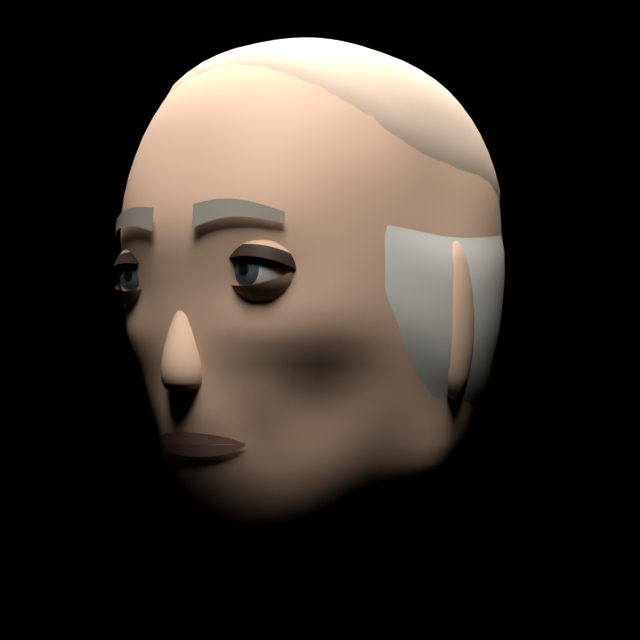
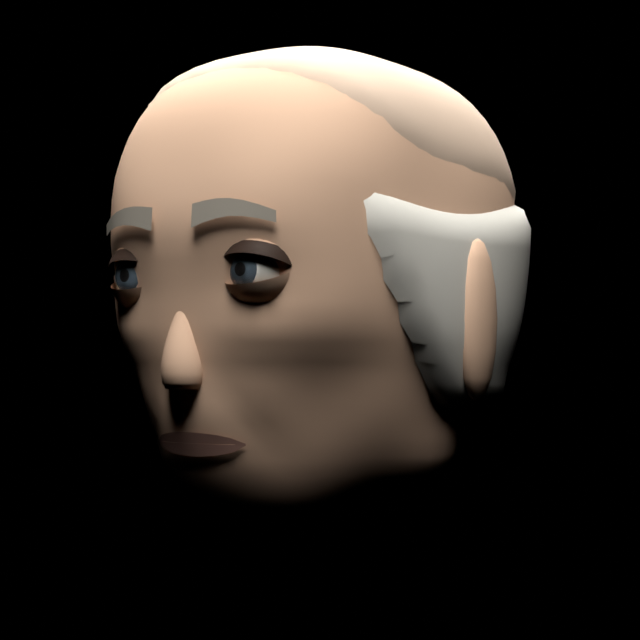
Design: Walter shot 38 v2 (kinder: dome, hair band, softer age, eyes, knotted scarf, paper bounce test)
Claude-Session: https://claude.ai/code/session_01W37kuJaPfCxGNG6Qm9m3cN

diff --git a/film/design/rig/heads.py b/film/design/rig/heads.py
@@ -35,7 +35,7 @@ SPEC = {
     "KAI":    dict(key="kai",    r=(0.077, 0.095, 0.115), jaw=0.82, chin_fwd=0.006, eye_r=0.0135, brow_th=0.0048, mouth_w=0.025, lip_th=0.9),
     "BEA":    dict(key="bea",    r=(0.079, 0.093, 0.112), jaw=0.80, chin_fwd=0.004, eye_r=0.0135, brow_th=0.0042, mouth_w=0.026, lip_th=1.15,
                   sclera="#F3F0E8", lid_ink="#0E0907", lid_albedo="#7C5642", ink_band=0.42),
-    "WALTER": dict(key="walter", r=(0.071, 0.095, 0.120), jaw=0.72, chin_fwd=0.007, eye_r=0.0130, brow_th=0.0085, mouth_w=0.024, lip_th=0.75,
+    "WALTER": dict(key="walter", r=(0.076, 0.095, 0.114), jaw=0.74, chin_fwd=0.007, eye_r=0.0142, dome=1.15, brow_th=0.0085, mouth_w=0.024, lip_th=0.75,
                   lid_ink="#3A2C25", lid_albedo="#C9A68D", ink_band=0.30, brow_lift=0.0028),  # heavy lids, bushy brows (shot 38)
 }
 
@@ -47,7 +47,7 @@ CONTROLS = {  # name: (default, min, max)  -- see face-rig.md
 }
 NEUTRAL = {
     "NOOR": dict(lid_up=0.82, naso=0.2), "KAI": dict(lid_up=0.7, naso=0.1),
-    "BEA": dict(lid_up=0.7, naso=0.35, lid_low=0.1), "WALTER": dict(lid_up=0.62, naso=0.6),
+    "BEA": dict(lid_up=0.7, naso=0.35, lid_low=0.1), "WALTER": dict(lid_up=0.66, naso=0.6, lid_low=0.15),
 }
 EYE_X, EYE_Z = 0.032, 0.012  # eye centres: +-x, z above head centre
 BROW_Z = 0.034
@@ -180,8 +180,8 @@ CHARACTER_ANATOMY = {
     "KAI":    [(0.045, -0.045, 0.016, 0.0020), (0.000, -0.098, 0.012, -0.0015)],   # young: full cheeks, softer chin
     "BEA":    [(0.045, -0.040, 0.018, 0.0035), (0.032, -0.012, 0.008, 0.0022)],    # full cheeks; tired under-eyes
     "WALTER": [(0.030, 0.030, 0.016, 0.0010), (0.032, 0.008, 0.010, 0.0018),  # brow, but keep sockets shallow (top light)
-               (0.046, -0.040, 0.014, -0.0040),     # heavier brow; hollow cheeks
-               (0.050, -0.088, 0.012, 0.0030), (0.032, -0.012, 0.008, 0.0018),      # jowls; under-eye bags
+               (0.046, -0.040, 0.016, -0.0012),     # cheeks: age in lines, not holes
+               (0.050, -0.088, 0.014, 0.0014), (0.032, -0.012, 0.008, 0.0014),      # soft jowls; under-eye bags
                (0.000, 0.070, 0.030, 0.0015),                                       # high forehead
                (0.031, -0.036, 0.010, 0.0016)]                                      # cheek fold above the nasolabial
               + [(0.017 + 0.0035 * i, -0.030 - 0.0085 * i, 0.0035, -0.0016) for i in range(5)]   # nasolabial crease
@@ -196,6 +196,7 @@ class Skull:
         self.rx, self.ry, self.rz = s["r"]
         self.jaw = s["jaw"]
         self.chin_fwd = s["chin_fwd"]
+        self.dome = s.get("dome", 0.75)
         self.fields = []
         for (x, z, sig, push) in ANATOMY + CHARACTER_ANATOMY.get(name, []):
             for sx in ((1, -1) if x else (1,)):
@@ -212,7 +213,7 @@ class Skull:
     def _base(self, v):
         # superellipsoid: squarer than an egg (boxier cranium, flatter face plane, firmer jaw)
         zz = v.z
-        pw = 2.0 + 0.75 * max(0.0, min(1.0, (zz + 0.2) / 0.6)) + 0.3 * max(0.0, min(1.0, (-zz - 0.3) / 0.4))
+        pw = 2.0 + self.dome * max(0.0, min(1.0, (zz + 0.2) / 0.6)) + 0.3 * max(0.0, min(1.0, (-zz - 0.3) / 0.4))
         sc = (abs(v.x) ** pw + abs(v.y) ** pw + abs(v.z) ** pw) ** (-1.0 / pw)
         v = v * sc
         zn = v.z
@@ -354,7 +355,7 @@ def build_head(name, collection=None, mats=None, pass_face=1, pass_hair=2):
         for v in bm.verts:
             v.co = Vector((v.co.x * 0.007, v.co.y * 0.014, v.co.z * (0.028 if name != "WALTER" else 0.036)))
         e = _mesh_obj(f"{name}_HD_EAR_{'R' if sx > 0 else 'L'}", bm, [M["skin"]], collection, root, pass_index=pass_face)
-        e.location = (sx * skull.rx * 0.95, -0.008, -0.006)
+        e.location = (sx * skull.rx * (1.04 if name == "WALTER" else 0.95), -0.008, -0.006)
 
     # eyes
     for side, sx in (("L", -1), ("R", 1)):
@@ -576,9 +577,10 @@ def _hair(name, s, skull, M, root, collection, ph):
     elif name == "WALTER":
         # thinning white hair, combed back: a fuller band round the sides and back, and a thin top
         # (lighter, scalp showing through) from a receding hairline. Not bald.
-        side = hairline(1.5, -0.32, -0.45)
-        top_lim = hairline(0.22, 0.22, 0.30)
-        shell(lambda c: min(side(c), -top_lim(c), (abs(math.atan2(c.x, c.y)) / math.pi - 0.37) * 1.5), lambda c: 1.022, "HAIR_SIDES", band=0.09, base=0.99)
+        side = hairline(1.5, -0.40, -0.50)
+        top_lim = hairline(0.34, 0.34, 0.42)
+        shell(lambda c: min(side(c), -top_lim(c), (abs(math.atan2(c.x, c.y)) / math.pi - 0.30) * 1.5),
+              lambda c: 1.065 + 0.03 * max(0.0, -c.y), "HAIR_SIDES", band=0.07)
         Mt = dict(M)
         Mt["hair"] = M.get("hair_thin", M["hair"])
         shell_top = hairline(0.74, 0.46, 0.20)
@@ -622,14 +624,42 @@ def build_neck(root, name, collection=None, mats=None, scarf=None):
     neck = _mesh_obj(f"{name}_HD_NECK", bm, [M["skin"]], collection, root, pass_index=1)
     obs = [neck]
     if scarf if scarf is not None else name == "WALTER":
-        bm = bmesh.new()
-        bmesh.ops.create_cone(bm, cap_ends=False, segments=32, radius1=rx * 1.75, radius2=rx * 1.3, depth=0.07)
-        for v in bm.verts:
-            v.co.y *= ry / rx
         sc_mat = M.get("scarf") or _mat("hd_walter_scarf", tuple(_palette()["walter/scarf"]["linear"]))
-        sc = _mesh_obj(f"{name}_HD_SCARF", bm, [sc_mat], collection, root, pass_index=2)
-        sc.location = (0, -0.016, -0.128)
-        obs.append(sc)
+        parts = []
+        # wrap: a soft torus round the neck base, then a knot at the front and two ends hanging down
+        bm = bmesh.new()
+        R, rr, seg, ring_n = rx * 1.18, 0.015, 36, 12
+        grid = []
+        for i in range(seg):
+            a = 2 * math.pi * i / seg
+            row = []
+            for j in range(ring_n):
+                b = 2 * math.pi * j / ring_n
+                rad = R + rr * math.cos(b) * (1.0 + 0.25 * math.sin(3 * a))   # lumpy wool
+                row.append(bm.verts.new((math.cos(a) * rad, math.sin(a) * rad * ry / rx, rr * math.sin(b) * 1.15)))
+            grid.append(row)
+        for i in range(seg):
+            for j in range(ring_n):
+                bm.faces.new((grid[i][j], grid[(i + 1) % seg][j], grid[(i + 1) % seg][(j + 1) % ring_n], grid[i][(j + 1) % ring_n]))
+        w = _mesh_obj(f"{name}_HD_SCARF", bm, [sc_mat], collection, root, pass_index=2)
+        w.location = (0, -0.014, -0.118)
+        parts.append(w)
+        bm = _sphere(1.0, 16, 12)
+        for v in bm.verts:
+            v.co = Vector((v.co.x * 0.020, v.co.y * 0.012, v.co.z * 0.017))
+        k = _mesh_obj(f"{name}_HD_SCARF_KNOT", bm, [sc_mat], collection, root, pass_index=2)
+        k.location = (0.008, ry * 1.18 + 0.006, -0.135)
+        parts.append(k)
+        for i, (dx, rot) in enumerate(((-0.006, 0.12), (0.020, -0.18))):
+            bm = bmesh.new()
+            bmesh.ops.create_cube(bm, size=1.0)
+            bmesh.ops.scale(bm, vec=Vector((0.040, 0.012, 0.15)), verts=bm.verts)
+            bmesh.ops.bevel(bm, geom=list(bm.edges), offset=0.004, segments=2, affect="EDGES")
+            e = _mesh_obj(f"{name}_HD_SCARF_END{i}", bm, [sc_mat], collection, root, pass_index=2)
+            e.location = (dx, ry * 1.18 + 0.010, -0.215)
+            e.rotation_euler = (0.12, rot, rot * 0.5)
+            parts.append(e)
+        obs += parts
     return obs
 
 

diff --git a/film/design/expressions/shot_expressions.py b/film/design/expressions/shot_expressions.py
@@ -56,8 +56,8 @@ LIB = {
     "walter/writing":       dict(lid_up=0.45, naso=0.6, gaze_y=0.8),
     "walter/clamp":         dict(lid_up=0.95, brow_in=-0.4, brow_out=0.1, press=0.6, naso=0.75, gaze_x=0.4),  # sheet
     "walter/release":       dict(lid_up=0.6, brow_in=0.2, naso=0.6),
-    "walter/speech":        dict(lid_up=0.4, brow_in=0.28, smile=0.02, chin=0.15, jaw=0.06, naso=0.6, gaze_y=0.7),  # sheet
-    "walter/speech_end":    dict(lid_up=0.62, lid_low=0.25, brow_in=0.15, smile=0.18, naso=0.7, gaze_x=0.4),     # sheet
+    "walter/speech":        dict(lid_up=0.45, lid_low=0.15, brow_in=0.28, smile=0.04, chin=0.15, jaw=0.06, naso=0.6, gaze_y=0.7),  # sheet
+    "walter/speech_end":    dict(lid_up=0.66, lid_low=0.32, brow_in=0.15, smile=0.18, naso=0.7, gaze_x=0.4),     # sheet
     "walter/to_lanyard":    dict(lid_up=0.65, naso=0.6, gaze_x=0.4, gaze_y=0.5),
     "walter/asking":        dict(lid_up=0.68, brow_in=0.22, smile=0.08, lid_low=0.12, naso=0.65, gaze_x=0.55, jaw=0.05),  # sheet
     "walter/nod":           dict(lid_up=0.55, smile=0.1, lid_low=0.15, naso=0.65),

diff --git a/film/design/rig/test_render.py b/film/design/rig/test_render.py
@@ -167,7 +167,14 @@ def walter_s38():
         L = json.load(open(os.path.join(os.path.dirname(os.path.abspath(__file__)), "..", "expressions", "shot_expressions.json")))["library"]
         set_expression(r, L[ex], from_neutral=True)
         panels(sc, power=25.0, lit=(True,), y0=-0.25)
-        camera(sc, (0, 0, -0.03), dist=1.05, lens=50, height=0.0)
+        # the white newspaper on his lap: real panel light bounces up off it (paper albedo + GI, no fill)
+        bpy.ops.mesh.primitive_plane_add(size=1, location=(0, -0.30, -0.42))
+        paper = bpy.context.active_object
+        paper.scale = (0.55, 0.36, 1)
+        paper.rotation_euler = (math.radians(-35), 0, 0)
+        from heads import _mat, _lin
+        paper.data.materials.append(_mat("newsprint", _lin("#D9D3C3")))
+        camera(sc, (0, 0, -0.06), dist=1.15, lens=50, height=0.0)
         render(sc, os.path.join(OUT, f"walter_s38_{tag}.png"), 960, 402)
 
 

diff --git a/film/STATUS.md b/film/STATUS.md
@@ -71,3 +71,4 @@ Append-only log. Newest at the bottom. Format: `- [role] what happened (file)`
 - Pass 2 next: idles and breathing, walks, Bea's reach, eye look-ats, neutral Noor on the platform, platform lamp post at R3, brushwork that follows camera moves, rougher hair, Bea's lids at 7.10, P12 catchlight, strap/lapel clipping.
 - [dp] Cue-crop review: 7.1–7.3 weak in shot 42 (each panel slipped above frame during the push). The build now checks cued panels in frame at the cue's time along moving paths; push shortened to 1.8 m, tilted ~1° up, A2 moved to y −2.0 (camera/)
 - [designer] Pass 2, shot 38 (Director): Walter's head brought to his sheet: thinning white hair (side band and thin scalp-toned top, not bald), bushy brows, heavy lid line, nasolabial/forehead creases, shallow sockets for top light, and build_neck() (thicker older neck, scarf) (design/rig/heads.py, renders/walter_s38_*.png)
+- [designer] Walter shot 38 v2 per Director (not 'spooky'): flatter, wider dome; full white side/back band in silhouette with ears; age in lines not hollows; larger eyes with lifted lower lid; wrapped knotted scarf; newspaper bounce test (paper albedo + GI, no fill) (design/rig/renders/walter_s38_*.png)
